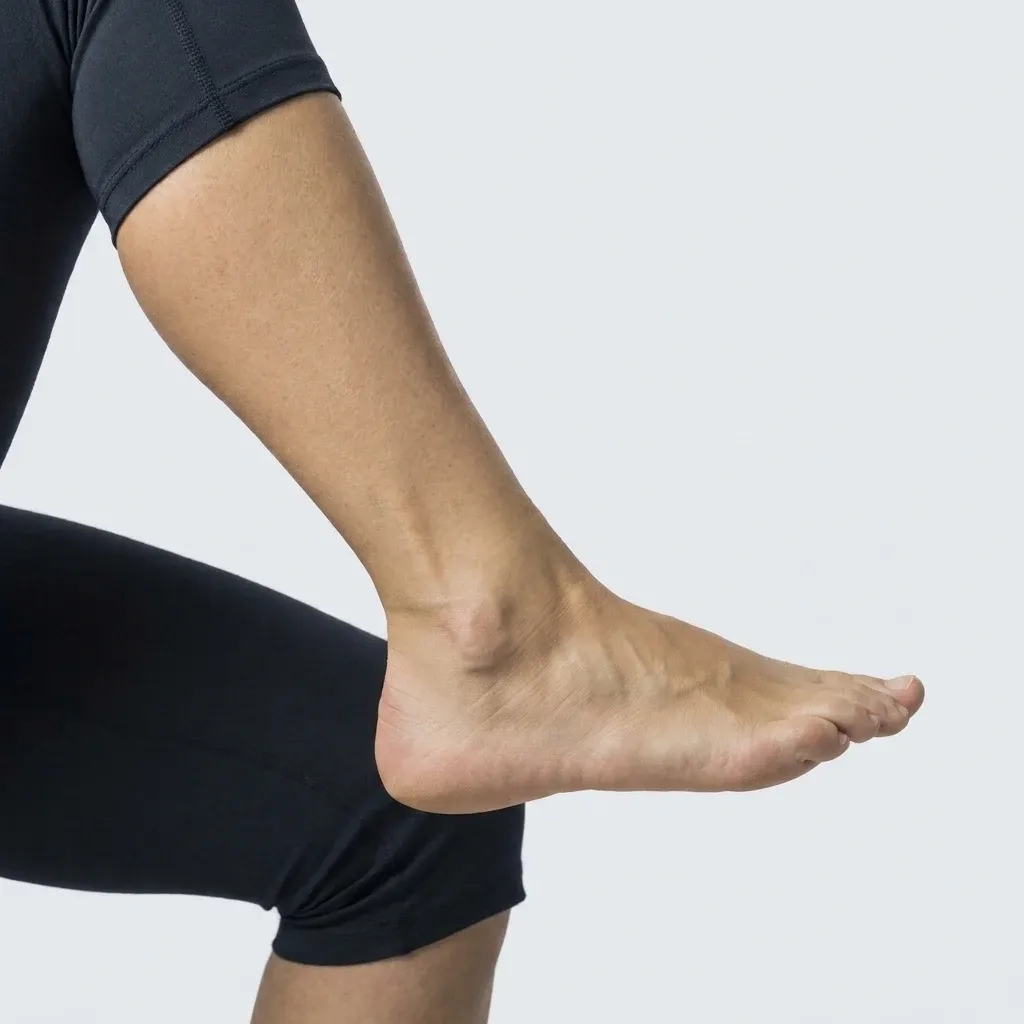
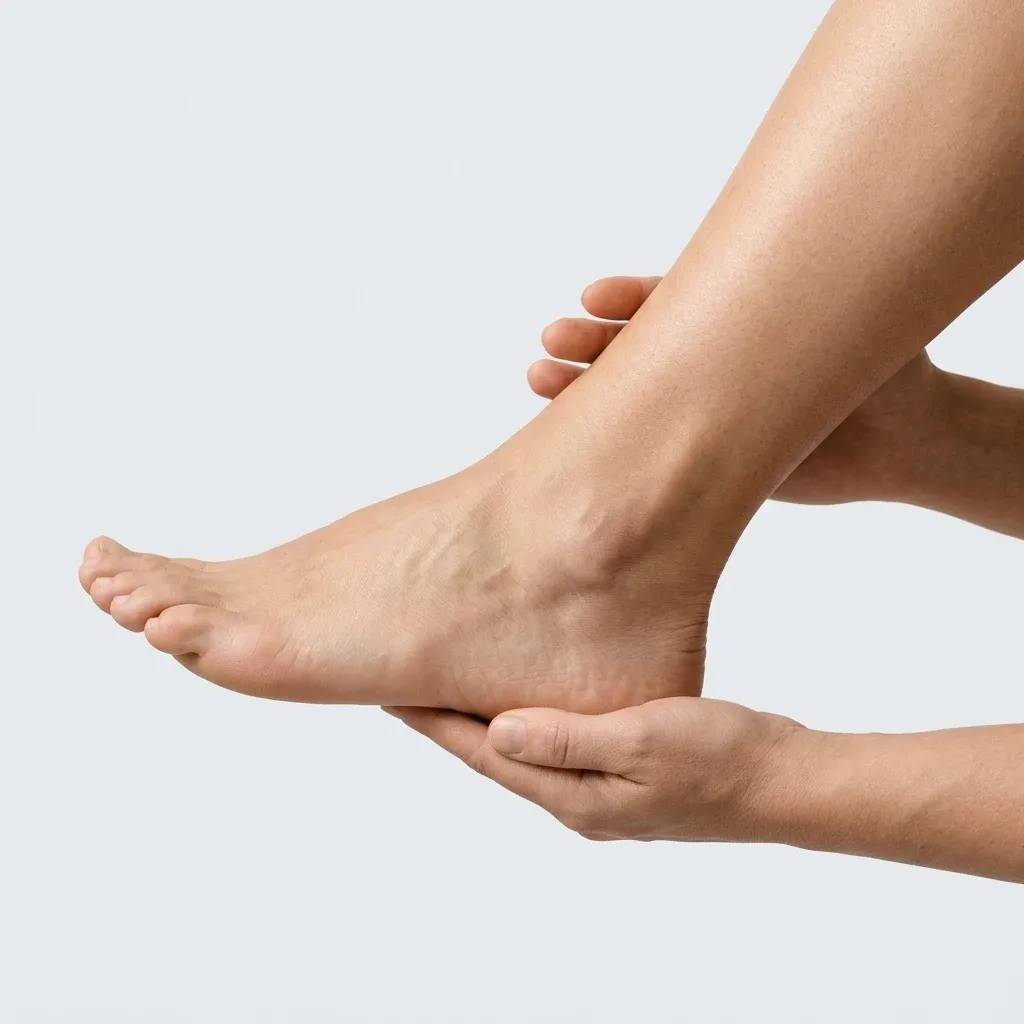
feat(triage): complete set of 6 region images and 1:1 squircle layout

diff --git a/modules/triage/assets/css/triage.css b/modules/triage/assets/css/triage.css
@@ -498,7 +498,7 @@
 }
 .gear-engine-triage-picker .tile-img-box {
 	width: 100%;
-	aspect-ratio: 1.15 / 1;
+	aspect-ratio: 1 / 1;
 	border-radius: 20px;
 	background: var(--md-sys-color-surface-container-high, #F2F4F7);
 	overflow: hidden;
